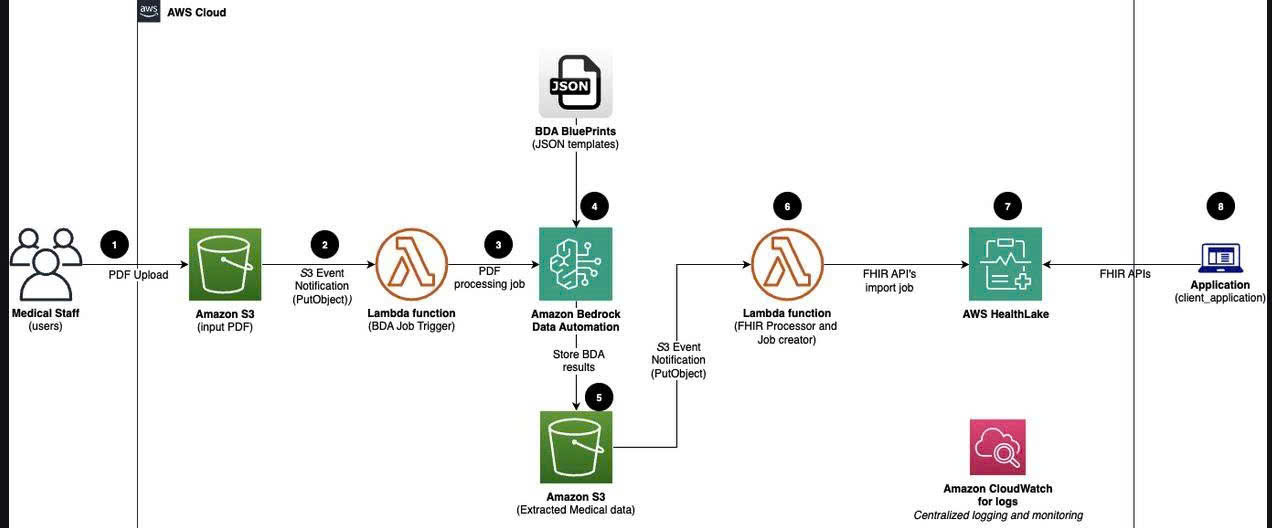
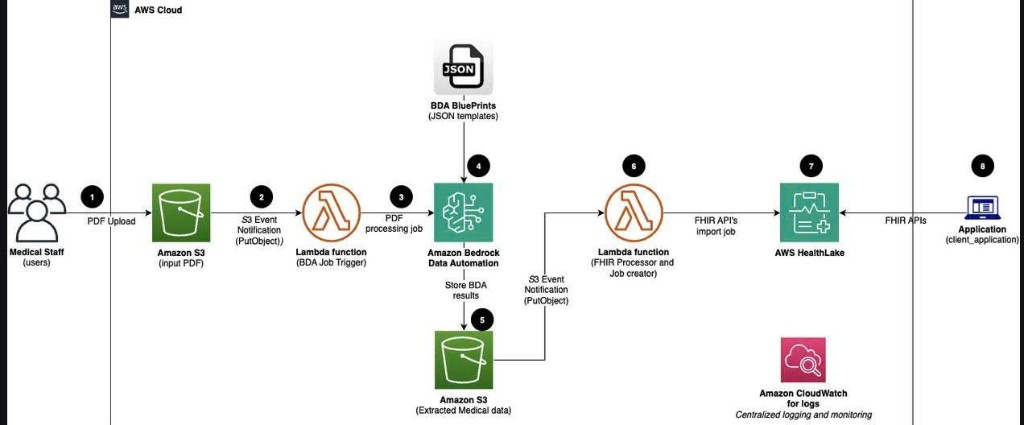
Update Workshop 11pm  2026

Changed region(s): [[0.1562, 0.5812, 0.1875, 0.6118]]

diff --git a/content/3-BlogsPosted/3.1-Blog1/_index.md b/content/3-BlogsPosted/3.1-Blog1/_index.md
@@ -16,6 +16,8 @@ So what's the right approach?
 
 ## Solution: Terraform + Ansible
 
+![AWS Storage Gateway Migration](/images/blog1.jpg)
+
 AWS proposes an **Infrastructure as Code (IaC)** pattern combining **Terraform** (provision infrastructure) and **Ansible** (configure & switch) to migrate gateways **while preserving data and configuration**:
 
 * **No re-upload from S3** (the Cache Disk is preserved)

diff --git a/content/3-BlogsPosted/3.1-Blog1/_index.vi.md b/content/3-BlogsPosted/3.1-Blog1/_index.vi.md
@@ -16,6 +16,8 @@ Vậy đâu là cách tiếp cận đúng?
 
 ## Giải pháp: Terraform + Ansible
 
+![AWS Storage Gateway Migration](/images/blog1.jpg)
+
 AWS đề xuất một pattern **Infrastructure as Code (IaC)** kết hợp **Terraform** (cấp phát hạ tầng) và **Ansible** (cấu hình & chuyển đổi) giúp di chuyển gateway **mà vẫn giữ nguyên dữ liệu và cấu hình**:
 
 * **Không phải upload lại dữ liệu từ S3** (giữ nguyên Cache Disk)

diff --git a/content/3-BlogsPosted/3.2-Blog2/_index.md b/content/3-BlogsPosted/3.2-Blog2/_index.md
@@ -22,6 +22,8 @@ The technical solution is to **automatically convert unstructured scanned docume
 
 The solution uses a **serverless, event-driven architecture** to automate the entire journey from uploading a PDF file to producing queryable data.
 
+![Amazon Bedrock Data Automation + HealthLake](/images/blog2.jpg)
+
 ```mermaid
 flowchart LR
   A[Hospital /<br>Clinic] -->|Upload PDF| B[Amazon S3<br>input-bucket]

diff --git a/content/3-BlogsPosted/3.3-Blog3/_index.md b/content/3-BlogsPosted/3.3-Blog3/_index.md
@@ -24,6 +24,8 @@ That's why **AArete** built **Doczy.ai™** — a **contract intelligence** plat
 
 AArete's stack of AWS services is pragmatic and well-engineered:
 
+![Doczy.ai Architecture - Frontend & AWS Services](/images/blog3.jpg)
+
 ```mermaid
 flowchart LR
   User([Enterprise<br>User]) -->|HTTPS| Frontend[Next.js<br>Web App]

diff --git a/content/3-BlogsPosted/3.3-Blog3/_index.vi.md b/content/3-BlogsPosted/3.3-Blog3/_index.vi.md
@@ -24,6 +24,8 @@ Chính vì vậy, công ty **AArete** đã xây dựng **Doczy.ai™** — một
 
 Cách AArete lắp ghép các service AWS rất thực dụng và bài bản:
 
+![Doczy.ai Architecture - Frontend & AWS Services](/images/blog3.jpg)
+
 ```mermaid
 flowchart LR
   User([Người dùng<br>doanh nghiệp]) -->|HTTPS| Frontend[Next.js<br>Web App]